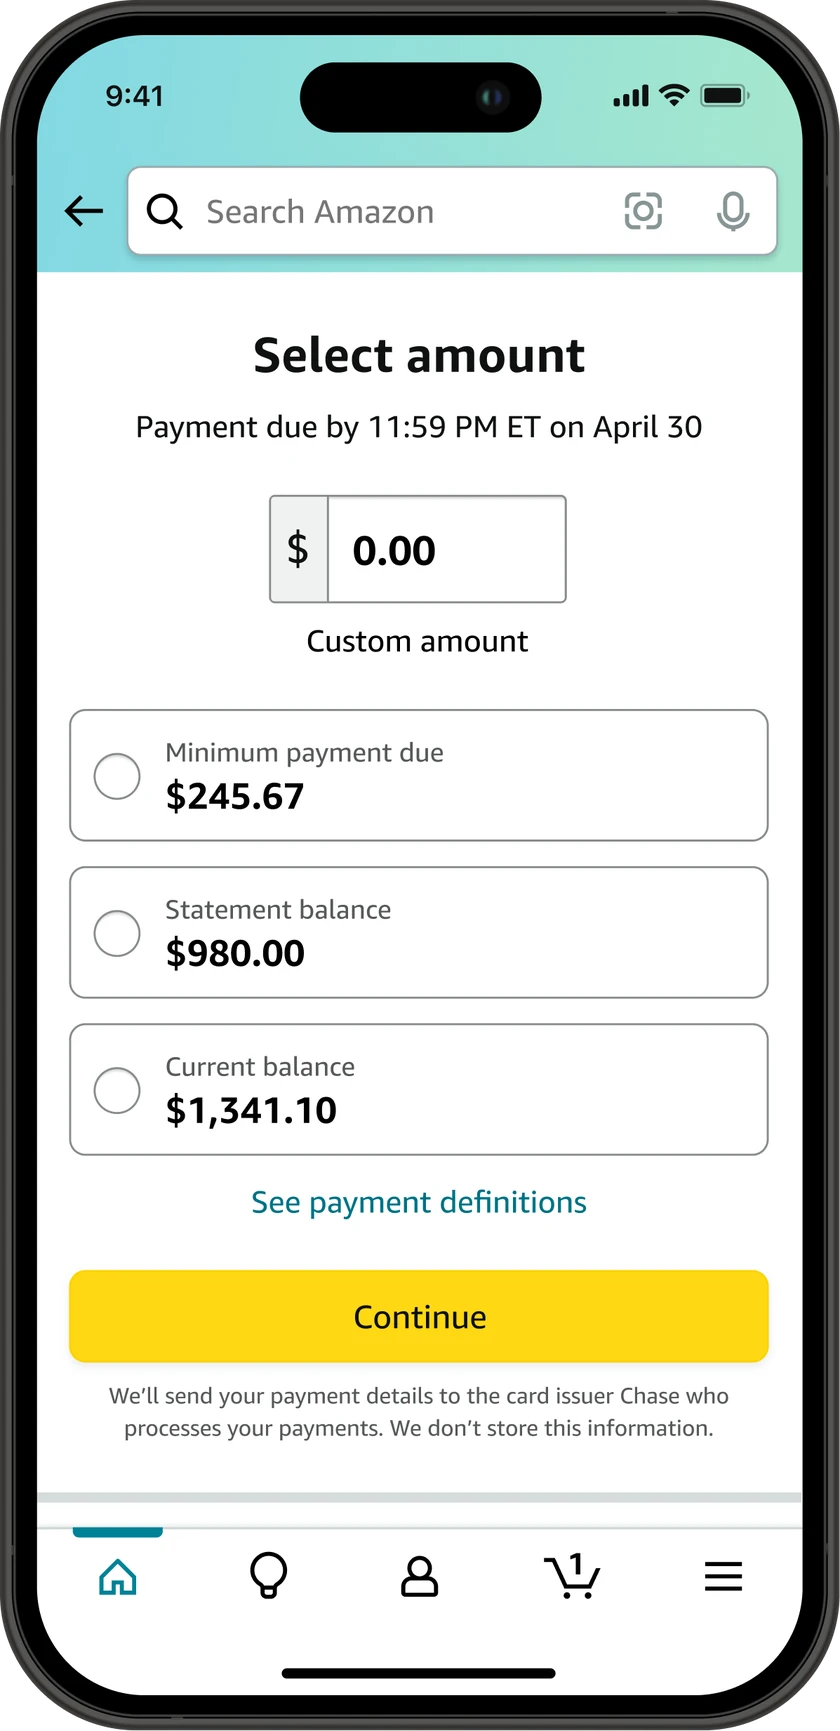
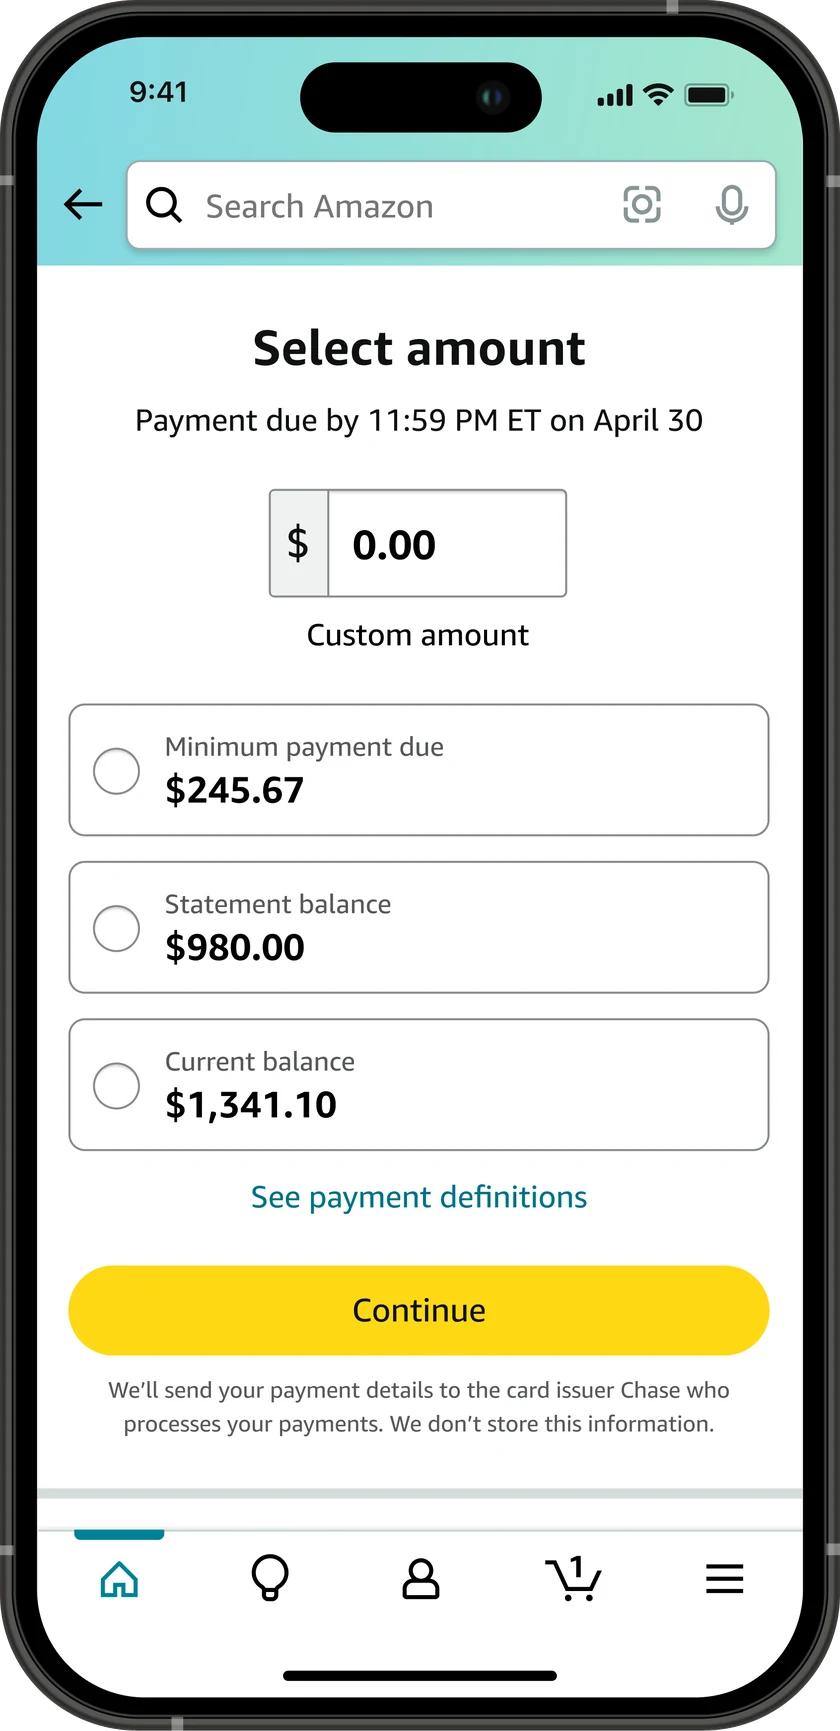
Rebuild the Pay Bill hero, and the slider beside it, from the new Figma frames
The hero was the request: node 2445:43500 of the AI Builder Bundles file, the
radio button Select amount screen, which is the screen this hero already showed
and the left half of the pair iteration 65 built the home page thumbnail from.
So the thumbnail and the hero are now the same generation of the screen. The
export was not re-downloaded; it is the one iteration 65 already read, and
keying is that iteration's load_keyed unchanged.

The slider screen was not the request. Section 05 pairs the shipped screen with
it under a comment reading "Same screen, same export size, so the comparison is
the point", and with only the hero rebuilt that pair showed two phones at 396
CSS px each with different Continue button shapes, which at that size reads as
two different screens. It also put $245.67 next to $35.40 for the same minimum
payment due. Rebuilding the slider from the export already on disk fixes both
and introduces nothing.

Both files stay 840 x 1731 because the pair has to match, even though the
sources could give 940.

iterations/66-pay-bill-hero-new-frame/ has the before state, both exports, the
encoder of record for both assets, and the two figure disagreements that are
still open on the Figma side.

diff --git a/work/pay-bill.html b/work/pay-bill.html
@@ -123,7 +123,16 @@
              saying so. The caption is gone, so an unlabelled hero would be
              claiming an unshipped design as the product. The slider still gets
              its own frame and its own caption in Experience, beside this exact
-             screen, which is where the comparison belongs anyway. -->
+             screen, which is where the comparison belongs anyway.
+
+             The asset was rebuilt in iteration 66 from the Figma frame the user
+             supplied, node 2445:43500, the same node iteration 65 took the left
+             half of the home page thumbnail from, so the thumbnail and this hero
+             are now the same generation of the screen.
+             iterations/66-pay-bill-hero-new-frame/proc.py is the encoder of
+             record: the export arrives opaque on the frame's own grey and has to
+             be keyed, and 840 x 1731 is a constraint rather than a default,
+             because section 05 pairs this file with the slider at that size. -->
         <div class="case-hero__media reveal-pop">
           <div class="case-hero__device case-hero__device--bare">
             <img src="../assets/img/pay-bill/otp-select-amount.webp"
@@ -301,7 +310,15 @@
 
       <div class="case-section__body reveal">
         <!-- The shipped amount step next to the concept it was tested against.
-             Same screen, same export size, so the comparison is the point. -->
+             Same screen, same export size, so the comparison is the point.
+
+             Both halves were rebuilt from new Figma frames in iteration 66, which
+             is why the slider is in an iteration whose request was about the hero:
+             rebuilding only the shipped screen would have left the pair with two
+             different Continue button shapes, and at this size that reads as two
+             different screens rather than one screen with and without a slider.
+             That equal size is also what pins both files to 840 x 1731 when the
+             source could give 940. -->
         <div class="shots shots--pair">
           <figure class="shot">
             <div class="shot__frame shot__frame--device">

diff --git a/DESIGN-SYSTEM.md b/DESIGN-SYSTEM.md
@@ -81,6 +81,7 @@ iterations/24-card-dashboard-goals-trim/  the second paragraph and the whole fou
 iterations/25-card-dashboard-team-role/  Card Dashboard section 03 replaced with the user's own team roster and a prose responsibilities sentence, retiring the UX working group paragraph and its five item .case-list. removed.html has both plus the old hero .case-meta Team value, which had to change in the same edit or the page stated the team two ways. Records why the rail keeps the short form, why 4&nbsp;Engineers carries a non-breaking space, and the two claims that came out of the copy and where each still lives on the page.
 iterations/26-card-dashboard-servicing-linked-only/  a one sentence factual correction in Card Dashboard section 04: servicing kept the top of the page for linked customers only, because on-Amazon servicing is gated on account linking, not "in both cases". No markup change. Also flags the framework figcaption's "hold fixed placement in both", which makes a similar claim about the header, quick action pills and balance and was left alone because it describes what is drawn on that board.
 iterations/27-card-dashboard-chase-linking/  Card Dashboard section 04 second paragraph: the unserved segment would not link their Chase account, not their "bank account", and they managed the card at Chase's app/website. Adds the gating rule that linking the Amazon and Chase accounts was required for on-Amazon servicing, which is what makes "most of the page was dead weight" follow rather than assert. Records why "bank account" was wrong here and right on Pay Bill, where it survives nine times.
+iterations/66-pay-bill-hero-new-frame/  **the Pay Bill case study hero rebuilt from the Figma frame the user supplied**, node `2445:43500`, asked for as *"Now can you update the hero image with: [node-id=2445-43500]"*. That node is the radio button Select amount screen, which is the left half of the pair iteration 65 built the home page thumbnail from and the screen this hero already showed, so the request is a straight replacement of an old export with the current one rather than a change of subject, and the thumbnail and the hero are now the same generation. The export was **not** re-downloaded: it is byte for byte iteration 65's `source/pb-phone1-4x.png`, copied in so this iteration stands alone, and asking Figma again would only risk a third export differing from the two already shipped. Keying is iteration 65's `load_keyed` unchanged, and its assertion that 505 of 3487 rows carry a `#F5F5F5` run still passes, which doubles as the check that the file is the same one; the one piece of that reasoning which does not transfer is the objection to iteration 60's convex fill, since that was about two phones sharing an image and these hold one each. **The slider screen was rebuilt too, and was not asked for.** Section 05 pairs the shipped screen with `slider-select-amount.webp` under a comment reading "Same screen, same export size, so the comparison is the point", and with only the hero rebuilt that pair rendered two phones at 396 CSS px each with **different Continue button shapes**, a pill against a rounded rectangle, which at that size reads as two different screens; it also put $245.67 next to **$35.40** for the same minimum payment due, an order of magnitude apart on a live page. Rebuilding the slider from the export already on disk fixed both, cost one encode, and introduced nothing, because the one defect in the new slider frame, the Chase disclosure's second line running under the tab bar, is already in the old asset. This was caught by looking at the rendered pair, not at the assets. **840 x 1731 is a constraint, not a default**: the hero is sized by `--case-hero-phone-h` so its intrinsic width is only a resolution ceiling, but the pair's two halves have to match, so both files keep their width even though the 1692px sources could give 940 like `basket-building/bundle-carousel.webp`. The real resolution floor on the page is the pair and it predates this work, 419.2 CSS px per half at 1280 against 840 natural, a ratio of exactly 1.00, no headroom, which is the argument for moving both to 940 together some day. What changed on the screens, measured by profiling dark ink rows rather than guessed: the Continue button became a pill on both, the search bar is slightly wider and the bezel a hair thinner on both, the radio screen sits about 6px higher at this size, and the slider's minimum payment due went from $35.40 to $235.40. Every other figure is untouched, none of them appears in any published copy (grep), and no alt text changed, since all three already named every item on their screen in order and a button radius is not a fact a screen reader user needs. Verified at DPR 2 across 1512, 1280, 860, 744 and 390 with reveals forced and every image eager and complete: `/tmp/audit57.py` over 8 pages and 5 viewports **ALL CLEAN** both before and after the slider rebuild, no document overflow, hero resolution ratio floor 1.38, the pair's two halves the same box at all five widths, and the keyed corners looked at rather than only measured. The light grey slivers at the bezel edges are the phone's own side buttons and were in the old asset too, confirmed by comparing column 0's opaque runs. **Still off and Figma side, none of it introduced here**: the minimum payment due disagrees between the two phones, $245.67 against $235.40, and so does the current balance, $1,341.10 against $1,341.00, and both are now legible side by side where the thumbnail only ever showed them at 171 CSS px per phone, so this is the surface where they matter.
 iterations/65-years-off-cards-new-paybill-frames/  **the year is off all five home page project cards**, and the Pay Bill thumbnail rebuilt from new Figma frames, both asked for in one line: *"Remove years from project thumbnails. For Pay Bill thumbnail image specifically, use this updated phone frames: [node-id=2445-43499]"*. This **reverses iteration 62**, which had just moved the same five values from start years to ranges, and it overrules a recommendation I gave in the turn immediately before: I had argued for keeping them, on the grounds that the home page is ordered by strength rather than by date, so a reader with no years assumes reverse chronological and reads KeyBank as the most recent work. That argument is not wrong and it is not the point; the user decided, and the five spans and the four comments that defended them are gone. Where the dates still live: **every case study page carries its own in the Timeline cell of its hero rail**, so nothing became undateable, and iteration 62's entry above holds all five values with the reasoning that derived them if they are ever wanted back. `.project__year` was deleted rule and all, `margin-left: auto; white-space: nowrap`; nothing else in `.project__meta` used `margin-left: auto`, so the index and the tag sit where they always did and the row simply ends after the tag. **If a year ever comes back it does not come back as a third chip**, it goes in the summary sentence where the site's standing rule already puts numbers. One unlooked for gain: the row is a single line at 390 again. `.project__tag` had wrapped "Credit card servicing" to two lines there ever since iteration 36, because the row has no `flex-wrap` and the year was taking the width; the first wrap is now at 360 and the row is 31px at 390 against 43 before. **The Pay Bill thumbnail** is `assets/img/pay-bill/home-card.webp` rebuilt from node `2445:43499` of `H3gOVBp2rmrTas26UAY195`, exported as its two phone children `2445:43500` and `2445:45969` at scale 4, and this iteration's `proc.py` is the encoder of record for an asset that had none before (iterations 08 through 11 do not cover it). The exports arrive **fully opaque on the frame's own `#F5F5F5`**, so the corners have to be keyed back out or the tinted `.project__media` panel shows four grey notches; iteration 14's punched in circle is wrong because the bezel corner is a squircle (a 252px circle would put a 230px run on row 1 and the export puts 242) and iteration 60's row wise convex fill is wrong because it would bridge the 56px gap, so the two phones are keyed **separately** with a plain run inward from each edge while the pixel is `#F5F5F5` plus or minus 3. That run exists on exactly 505 of 3487 rows, 252 at the top and 253 at the bottom, and nowhere else, which is what makes it safe: the bottom corner bands hold 22,657 pure white pixels of screen content that any lightness threshold would have eaten. Geometry is the outgoing asset's own, measured off it before replacement so the thumbnail keeps its size and place: 1600 x 1200, phones 536 wide, 56px gap, 236px side pad. The one departure is vertical, 1105 tall at 47px top pad and 48 bottom rather than 1104 at 48 and 48, because these frames are 423 x 871.517 and forcing 1104 would have squashed them by a quarter of a CSS pixel's worth of aspect. The alt text was rewritten, since the old one was nine words for two screens that have changed. Verified at DPR 2 across 1512, 1280, 1024, 860, 744, 430, 390, 360 and 320: no document overflow at any width, the thumbnail's resolution ratio is 1.10 at its worst (860) and never below 1, and `/tmp/audit57.py` over 8 pages and 5 viewports is **ALL CLEAN**. **The frames were exported twice.** The first export shipped, three defects in it were reported, the user updated the Figma the same day, and the same two nodes were re-exported and the asset rebuilt; the second export is byte-different, same dimensions, same `#F5F5F5` flattening and the same 505 background-run rows, so `proc.py` did not change. Both exports are kept, `source/` being the second and `source-first-export/` the first. The update **fixed the one that mattered**: the left phone carried a `< Back` bar and the right did not, so the two phones disagreed about their own app chrome, which reads worse in a thumbnail than any number on them, and both now open on the search header. **Three are still off, all Figma side and none fixable here**: the minimum payment due still disagrees between the two phones, $245.67 on the radio screen against $235.40 on the slider screen (it was $35.40, so it now looks like a typo rather than a different figure); the current balance is $1,341.10 on one and $1,341.00 on the other; and new in the second export, the second line of the Chase disclosure on the slider screen runs under the bottom tab bar, because that screen frame is 386 x 1123 inside an 836 viewport. All three sit below the legibility threshold at the size the thumbnail renders, which is why the asset ships, but the frames are presumably used at full size elsewhere.
 iterations/64-about-portrait-photo/  the about page hero's portrait replaced with a real photograph, asked for as *"For about me page, can you use my hi-res LinkedIn photo?"* and then *"use this photo"* with one attached. **The LinkedIn photo could not be reached by any route**: no `assets/img/about/` existed, the saved profile PDF is text only and a byte scan of all 72,359 bytes found no JPEG stream and no `/Subtype /Image`, this machine has no `pdfimages`, `pdftoppm`, `mutool`, `qpdf` or `gs` and no `fitz`, and a fetch of the public profile returned only the banner. So the user supplied a photograph from the Photos library instead. **The paste handed over a derivative, not the original**, and finding the full resolution version is half the iteration: the pasted file is 768 x 1024, `derivatives/masters/` holds only 360 x 480, `originals/` does not hold the UUID at all, and the best available is `renders/0/..._1_201_a.heic` at **3300 x 4397**. PIL here cannot decode HEIC, so it was transcoded with macOS `sips -s format png` and the transcode is kept in `source/` so `proc.py` runs without the library. **The crop is the decision, not the resize.** As shot it is a full figure at 3:4, head to sneakers, at Rockefeller Center, and the slot renders at most 416 CSS px wide, which puts the **face at 60px tall**. Three candidates were rendered at exactly 416 x 520 and looked at, which is the only way to judge this: full figure 60px, **head to mid thigh 97px, chosen**, head to hands 118px. Face height at a fixed render width depends only on how much of the frame the face occupies, so **cropping vertically alone buys nothing** and the crop has to come in from the sides too; it is centred on his body at x=1720 rather than on the frame, because he stands right of centre. It costs the legs, the sneakers and the gilded Prometheus statue, which sits at x 0 to 680 and cannot survive any crop tight enough to fix the face, and it keeps the plaza's flags, the hedges, the brass railing and the whole shirt print. The tightest candidate was rejected because at 118px the face is barely better than 97 and the shirt print, which is most of the photograph's character, gets cut in half. Output is 1000 x 1250 WebP at quality 86, 153 KB; **none of iteration 14's or 60's corner work applies**, this being a rectangular photograph whose radius is CSS. **The cap moved from 20rem to 26rem and the ratio did not**, which is the re-derivation the old note demanded rather than a deletion of it: the cap's job is no longer sharpness but stopping a 4:5 photograph from out-growing the headline, 416px sits within 24px of the 392px track at 1512 so the track governs where it matters, and widening the ratio would push the track past the cap and restore the dead sand the ratio exists to prevent. **The old asset was the soft one all along**: `headshot.jpg` measured **0.81 at every viewport from 390 to 3840**, 318 CSS px rendered needing 636 against 512 available, and the note's "renders at 1.6x" had simply left DPR out. The photograph measures 1.21 to 1.59, so it is the first image this slot has held that is not upscaled. Alt text rewritten, the old one having described a gray hoodie and a cream wall. Verified across nine viewports from 360 to 3840 at DPR 2: the hero grid at 1512 is 669px tall against a 489px portrait, so the text column still sets the row height, and at 2560 the portrait leads by 17px. Audit ALL CLEAN. Not changed: **`index.html` still uses `headshot.jpg` for the 48px round bulb in the hero eyebrow**, which is what a tight square face crop is for, so that asset stays live; a bulb derived from this photograph would make the two pages agree on which photograph of him the site uses, and that is worth doing, but it is a change to the home page and this request was about the about page.
 iterations/63-keybank-year-and-legacy-screens/  KeyBank's home page card back to **2019**, and the **two legacy screens moved out of section 05 Experience into section 01 Background**, asked for together: *"Make Keybank's year 2019 and then the two top images in the experience section should go in the background"*. The year reverts the one row of iteration 62 that was not read off its own page: `keybank.html` says March 2018 twice and its one dated quote is April 2018, but **a six month UX delivery from March 2018 hands off to a build the page does not cover**, and the person who was there knows which year the project is filed under, so the page not mentioning 2019 is a gap in the page rather than evidence against the card. The span's comment now says so and tells the next reader not to correct it again, because the mismatch will keep looking like a defect to anyone who only reads the repo. **The two screens were misfiled and their own captions proved it**: "This is the 55 minutes" points at the first sentence of the Background prose and "This is the crash in the quote above" points at the Background pull quote, both about 2,000px further up the page, so the evidence for the problem sat inside the section showing the solution and a reader met the old system only after reading the whole new flow. Background now reads as claim, testimony, evidence; section 05 is the designed flow only, in flow order, ten screens opening on Branch information. Neither caption was edited, "The same legacy system" in the second alt still refers to the figure directly above it, and section 05's "the way the old system did" still reads because the old system has been shown by then. Markup is a plain `<div class="shots">` in `.case-section__body`, so the one-up grid, `--shots-gap` and the `--s-6` top margin all come for free with **no new CSS**; deliberately **not** `.shots-group`, which widens the paragraph above to `--measure-case-wide` and raises its size, right for a lead-in and wrong for body copy. Both sections sit in the same `.container.case-section__grid`, so the images render at exactly the width they did before, which is what makes this a move and not a resize. Verified at 1512 and 390, DPR 2: two `.shot` figures in `#background` and ten in 05, no broken images, no overflow, one h1, no console errors, audit ALL CLEAN. Notes a pre-existing defect this did not cause and does not fix: **every one of the twelve KeyBank desktop screens measures 0.96 natural-to-rendered-times-DPR at 1512**, 1600px sources against a rendered 833 x 2, which wants a re-export rather than anything in this change.
